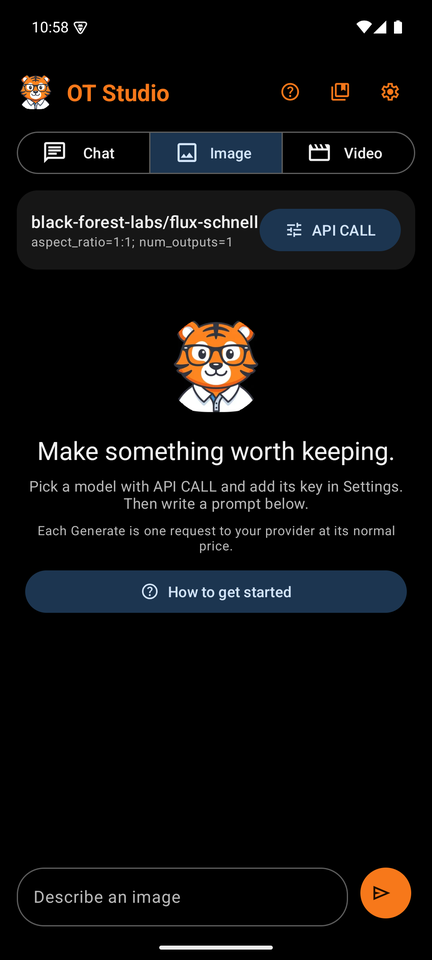
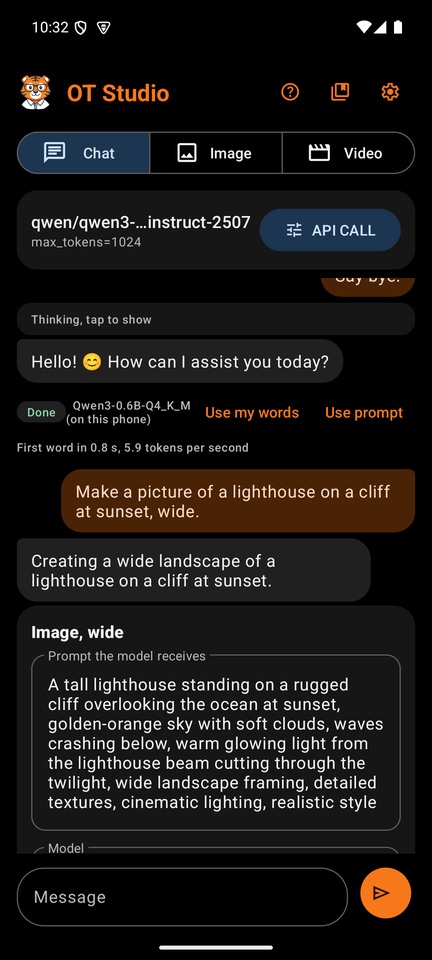
Wiki screenshots for the new screens; plain chat summaries
New screenshots: chat with a job card, the job card, the model manager,
Memory, Settings for Chat (two), and the Edit dialog. The README's main
screen image shows chat-led creation. Online chat entries no longer show
raw settings, and the setup card reads Online chat through OpenRouter.

diff --git a/app/src/main/java/com/orangetiger/otstudio/MainActivity.kt b/app/src/main/java/com/orangetiger/otstudio/MainActivity.kt
@@ -309,7 +309,7 @@ class MainActivity : AppCompatActivity() {
             setupTitle.text = s.model
             setupSummary.text = when {
                 app.isBusy() -> "Working..."
-                mode == Mode.CHAT -> ModelOptions.summary(s.model, s.options).ifBlank { "Provider defaults" }
+                mode == Mode.CHAT -> "Online chat through OpenRouter"
                 else -> PlainSummary.describe(mode, s.model, s.options)
             }
         }
@@ -438,8 +438,10 @@ class MainActivity : AppCompatActivity() {
         meta.addView(statePill(e.state)); meta.addView(ui.text("  ${e.model}", Ui.Type.CAPTION, ui.muted), ui.weight())
         if (plan == null && app.createFromChat && e.state == "succeeded") meta.addView(ui.textButton("Use my words") { ownWordsChoice(e) })
         meta.addView(ui.textButton("Use prompt") { prompt.setText(e.prompt); prompt.requestFocus() })
-        feed.addView(meta, ui.matchWrap(if (e.requestSummary.isEmpty()) 14 else 2))
-        if (e.requestSummary.isNotEmpty()) feed.addView(ui.text(e.requestSummary, Ui.Type.CAPTION, ui.muted), ui.matchWrap(14))
+        // On-device replies carry a speed line; online replies would only repeat raw settings, so they show none.
+        val speed = e.requestSummary.takeIf { e.baseUrl == History.LOCAL_BASE && it.isNotEmpty() }
+        feed.addView(meta, ui.matchWrap(if (speed == null) 14 else 2))
+        if (speed != null) feed.addView(ui.text(speed, Ui.Type.CAPTION, ui.muted), ui.matchWrap(14))
     }
 
     /** The web searches behind a reply: each query, its service, and links the user can open. */
@@ -701,7 +703,7 @@ class MainActivity : AppCompatActivity() {
         card.addView(actionRow(
             ui.tonal("Save key") { try { if (key.text.toString().isNotBlank()) { app.settings.saveSearchKey(key.text.toString()); key.setText(""); ui.layoutOf(key)?.helperText = helper(); note.text = "Saved." } } catch (e: UserError) { note.text = e.message } },
             ui.danger("Remove key", R.drawable.ic_delete) { try { app.settings.saveSearchKey(""); ui.layoutOf(key)?.helperText = helper(); note.text = "Key removed." } catch (e: UserError) { note.text = e.message } },
-            ui.textButton("Get a free key", R.drawable.ic_open_in_new) { openLink(TAVILY_SIGNUP) }
+            ui.textButton("Get a key", R.drawable.ic_open_in_new) { openLink(TAVILY_SIGNUP) }
         ))
         card.addView(note)
     }

diff --git a/app/src/main/java/com/orangetiger/otstudio/ModelsScreen.kt b/app/src/main/java/com/orangetiger/otstudio/ModelsScreen.kt
@@ -22,7 +22,7 @@ class ModelsScreen(private val activity: MainActivity, private val ui: Ui, priva
         val content = ui.column()
         scroll.addView(content)
         root.addView(scroll, LinearLayout.LayoutParams(-1, 0, 1f))
-        content.addView(ui.text("Models download from Hugging Face into this app's private storage. Chat with them works offline, and nothing you type leaves the phone. Each download is large, so use Wi-Fi.", Ui.Type.SMALL, ui.muted).apply { setPadding(0, 0, 0, ui.dp(4)) })
+        content.addView(ui.text("Models download from Hugging Face into this app's private storage. Chat with them works offline, and your messages stay on the phone. Each download is large, so use Wi-Fi.", Ui.Type.SMALL, ui.muted).apply { setPadding(0, 0, 0, ui.dp(4)) })
         space = ui.text("", Ui.Type.SMALL, ui.muted).apply { setPadding(0, 0, 0, ui.dp(10)) }
         content.addView(space)
         list = ui.column()

diff --git a/wiki/Design-Settings.md b/wiki/Design-Settings.md
@@ -2,7 +2,7 @@
 
 # Settings
 
-<img src="images/panel-settings-1.png" width="260" alt="Settings showing the provider and key cards"> <img src="images/panel-settings-2.png" width="260" alt="Settings showing the save folder and About cards">
+<img src="images/panel-settings-chat-1.png" width="260" alt="Settings for Chat with On this phone selected"> <img src="images/panel-settings-chat-2.png" width="260" alt="Settings for Chat showing memory, history, and web search"> <img src="images/panel-settings-1.png" width="260" alt="Settings showing the provider and key cards"> <img src="images/panel-settings-2.png" width="260" alt="Settings showing the save folder and About cards">
 
 Settings holds what changes rarely: where chat runs, the provider address, the default model, the key, and the save folder. Release builds block screenshots and screen recording on this screen, so a key never lands in a capture.
 
@@ -56,7 +56,7 @@ This card appears only under Chat.
 | Allow web search | A checkbox, on by default | Lets the chat look up current facts before it answers. Off keeps every message on the phone. |
 | Note | Says that search words leave the phone and that replies list their searches | The user knows what is sent and where |
 | Tavily API key | A password field, optional, with a status line | Without a key the chat searches Wikipedia. A free Tavily key searches the whole web. The key is encrypted and goes only to Tavily. |
-| Save key, Remove key, Get a free key | Buttons | Get a free key opens Tavily's sign-up page in the browser |
+| Save key, Remove key, Get a key | Buttons | Get a key opens Tavily's sign-up page in the browser |
 
 ## Memory and history card
 

diff --git a/wiki/Design-Main-Screen.md b/wiki/Design-Main-Screen.md
@@ -31,7 +31,7 @@ Each mode keeps its own model, options, key, history, and unsent prompt. Switchi
 | Box | What it holds | Why |
 |---|---|---|
 | Model ID | The exact model the next request will use, such as `black-forest-labs/flux-schnell` | Image and video requests cost money. The user should see the model before tapping send, not after. |
-| Option summary | Plain words for the settings, such as "Image, square, safety checker off" or "5-second clip, wide, 720p" | Shows what will change the result or the price without raw setting names. It reads "Working..." while a request runs. |
+| Option summary | Plain words for the settings, such as "Image, square, safety checker off" or "5-second clip, wide, 720p". Chat through OpenRouter reads "Online chat through OpenRouter". | Shows what will change the result or the price without raw setting names. It reads "Working..." while a request runs. |
 | API CALL button | Opens the [API CALL Panel](Design-API-CALL-Panel.md) | Changing the model or its inputs is the most common adjustment, so its button sits beside the summary it changes |
 
 The model ID shortens in the middle when it is too long, so both the owner and the model name stay visible.

diff --git a/wiki/Design-Model-Manager.md b/wiki/Design-Model-Manager.md
@@ -2,6 +2,8 @@
 
 # Model Manager
 
+<img src="images/panel-model-manager.png" width="260" alt="The model manager with the suggested models">
+
 The model manager downloads chat models onto the phone. Chat can then run with no key and no cost per message. Open it from Settings, under Chat, with Manage models. The Models button on the main screen opens it too while Chat runs on the phone.
 
 Model files come from Hugging Face. OT Studio never ships one inside the app. Each file stays in the app's private storage, and Android backup skips it.

diff --git a/wiki/Design-Output-Actions.md b/wiki/Design-Output-Actions.md
@@ -28,6 +28,8 @@ The upload goes to the user's own Replicate account through Replicate's Files AP
 
 ### The Edit dialog
 
+<img src="images/action-edit.png" width="260" alt="The Edit this image dialog with an instruction and FLUX Kontext dev">
+
 | Box | What it holds | Why |
 |---|---|---|
 | What should change? | A text field for a plain instruction, with an example under it | Editing models follow short, direct instructions best, such as "change the orange border to black" |

diff --git a/wiki/Design-Job-Card.md b/wiki/Design-Job-Card.md
@@ -2,6 +2,8 @@
 
 # Job Card
 
+<img src="images/panel-job-card.png" width="260" alt="A job card for a wide picture of a lighthouse">
+
 With Create from chat on, the user can ask for a picture, an edit, or a video in plain words. The chat model turns the request into a plan, and the plan appears under its reply as a job card. Nothing is paid for until the user taps Generate on the card.
 
 ## How a plan is made

diff --git a/wiki/Design-Memory.md b/wiki/Design-Memory.md
@@ -2,6 +2,8 @@
 
 # Memory
 
+<img src="images/panel-memory.png" width="260" alt="Memory with two instructions switched on">
+
 Memory holds standing instructions that open every chat. A user writes each one once, such as a name to use or a writing rule, and never has to repeat it. Open Memory from [Settings](Design-Settings.md), under Chat, with Edit memory.
 
 ## Top bar
